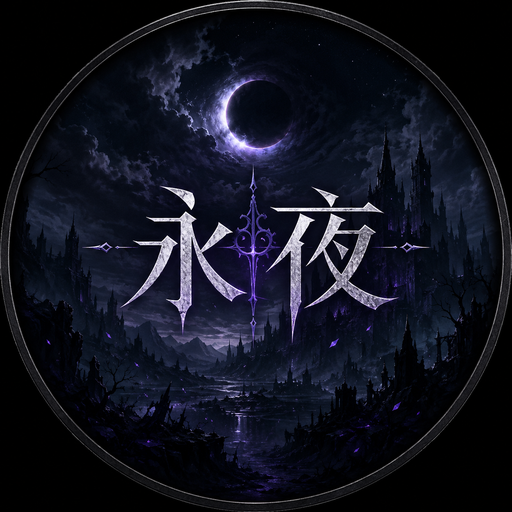
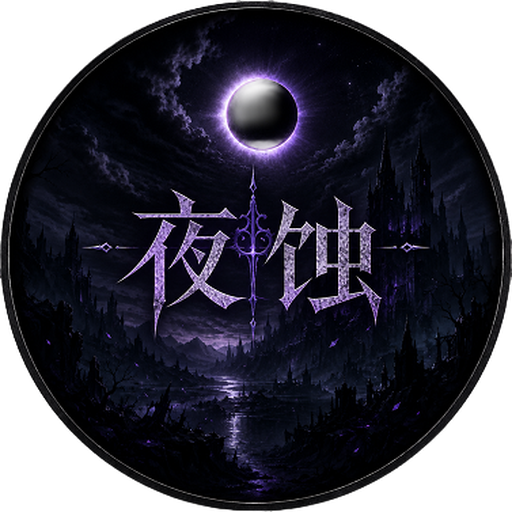
m313:MOD图标更换(作者上传新图)——新版《夜蚀》圆形徽标(月蚀+紫黑城塞)Lanczos升采样512×512覆盖icon.png;纯资源零代码零配置,configVersion不变89;fabric.mod.json icon路径不变;DEVLOG+HANDOVER已补账

diff --git a/DEVLOG.md b/DEVLOG.md
@@ -2649,3 +2649,8 @@ ServerBossBar#setName)。Java 数 164 不变。configVersion 不变(仍 19)。
 - 红眼分档仍限僵尸系——其他怪没有眼位叠层贴图(各模型 UV 不同,要做需逐模型画眼,另立里程碑)。
 - 隐身怪不冒紫气(渲染驱动天然如此);紫气密度按 60fps 估算,低帧机器上会等比例变淡(不是变卡),属可接受方向。
 
+
+## m313 MOD 图标更换(作者上传新图,2026-07-28)
+- 作者提供新版《夜蚀》圆形徽标(源 377×377 RGBA,月蚀+紫黑城塞主题)。按仓库既有规格 Lanczos 升采样到 **512×512**、optimize 压缩后覆盖 `assets/yongye/icon.png`。
+- **纯资源改动**:`fabric.mod.json` 的 `icon` 字段路径不变(仍 `assets/yongye/icon.png`),零代码、零配置,configVersion **不变(89)**。
+- 验证:进游戏 mods 列表即显新图;圆形徽标自带深色外环,深色 mods 背景下同样清晰。嫌太大/太小只需重存不同尺寸覆盖同名文件,不用改代码。
